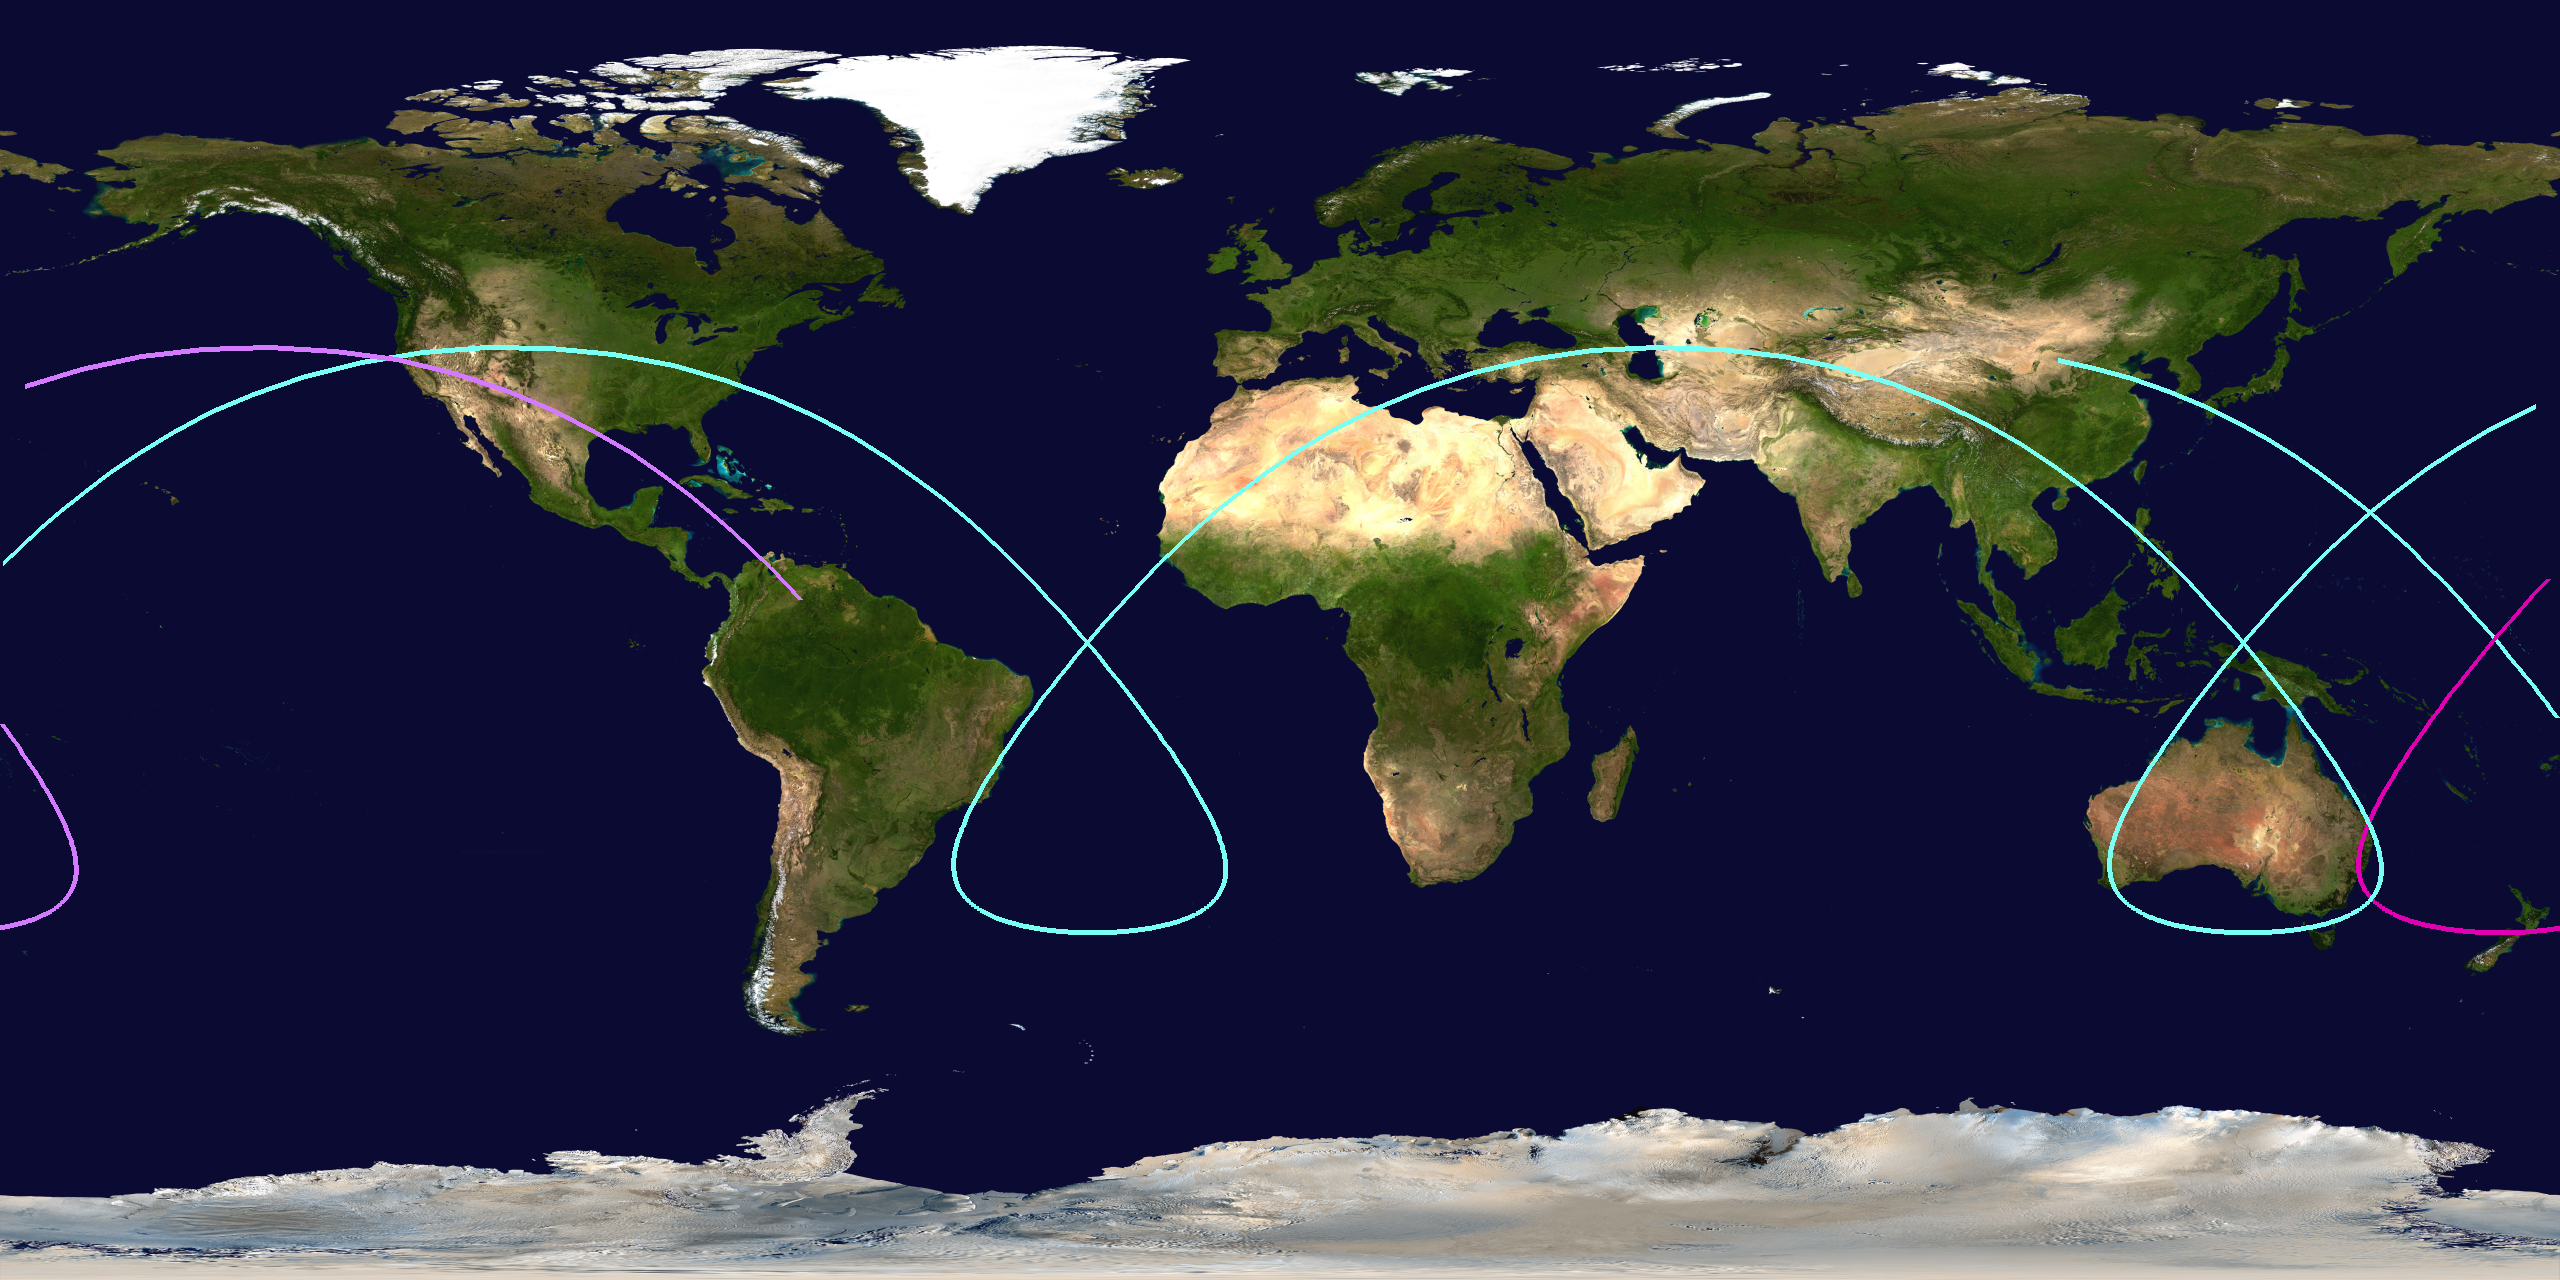
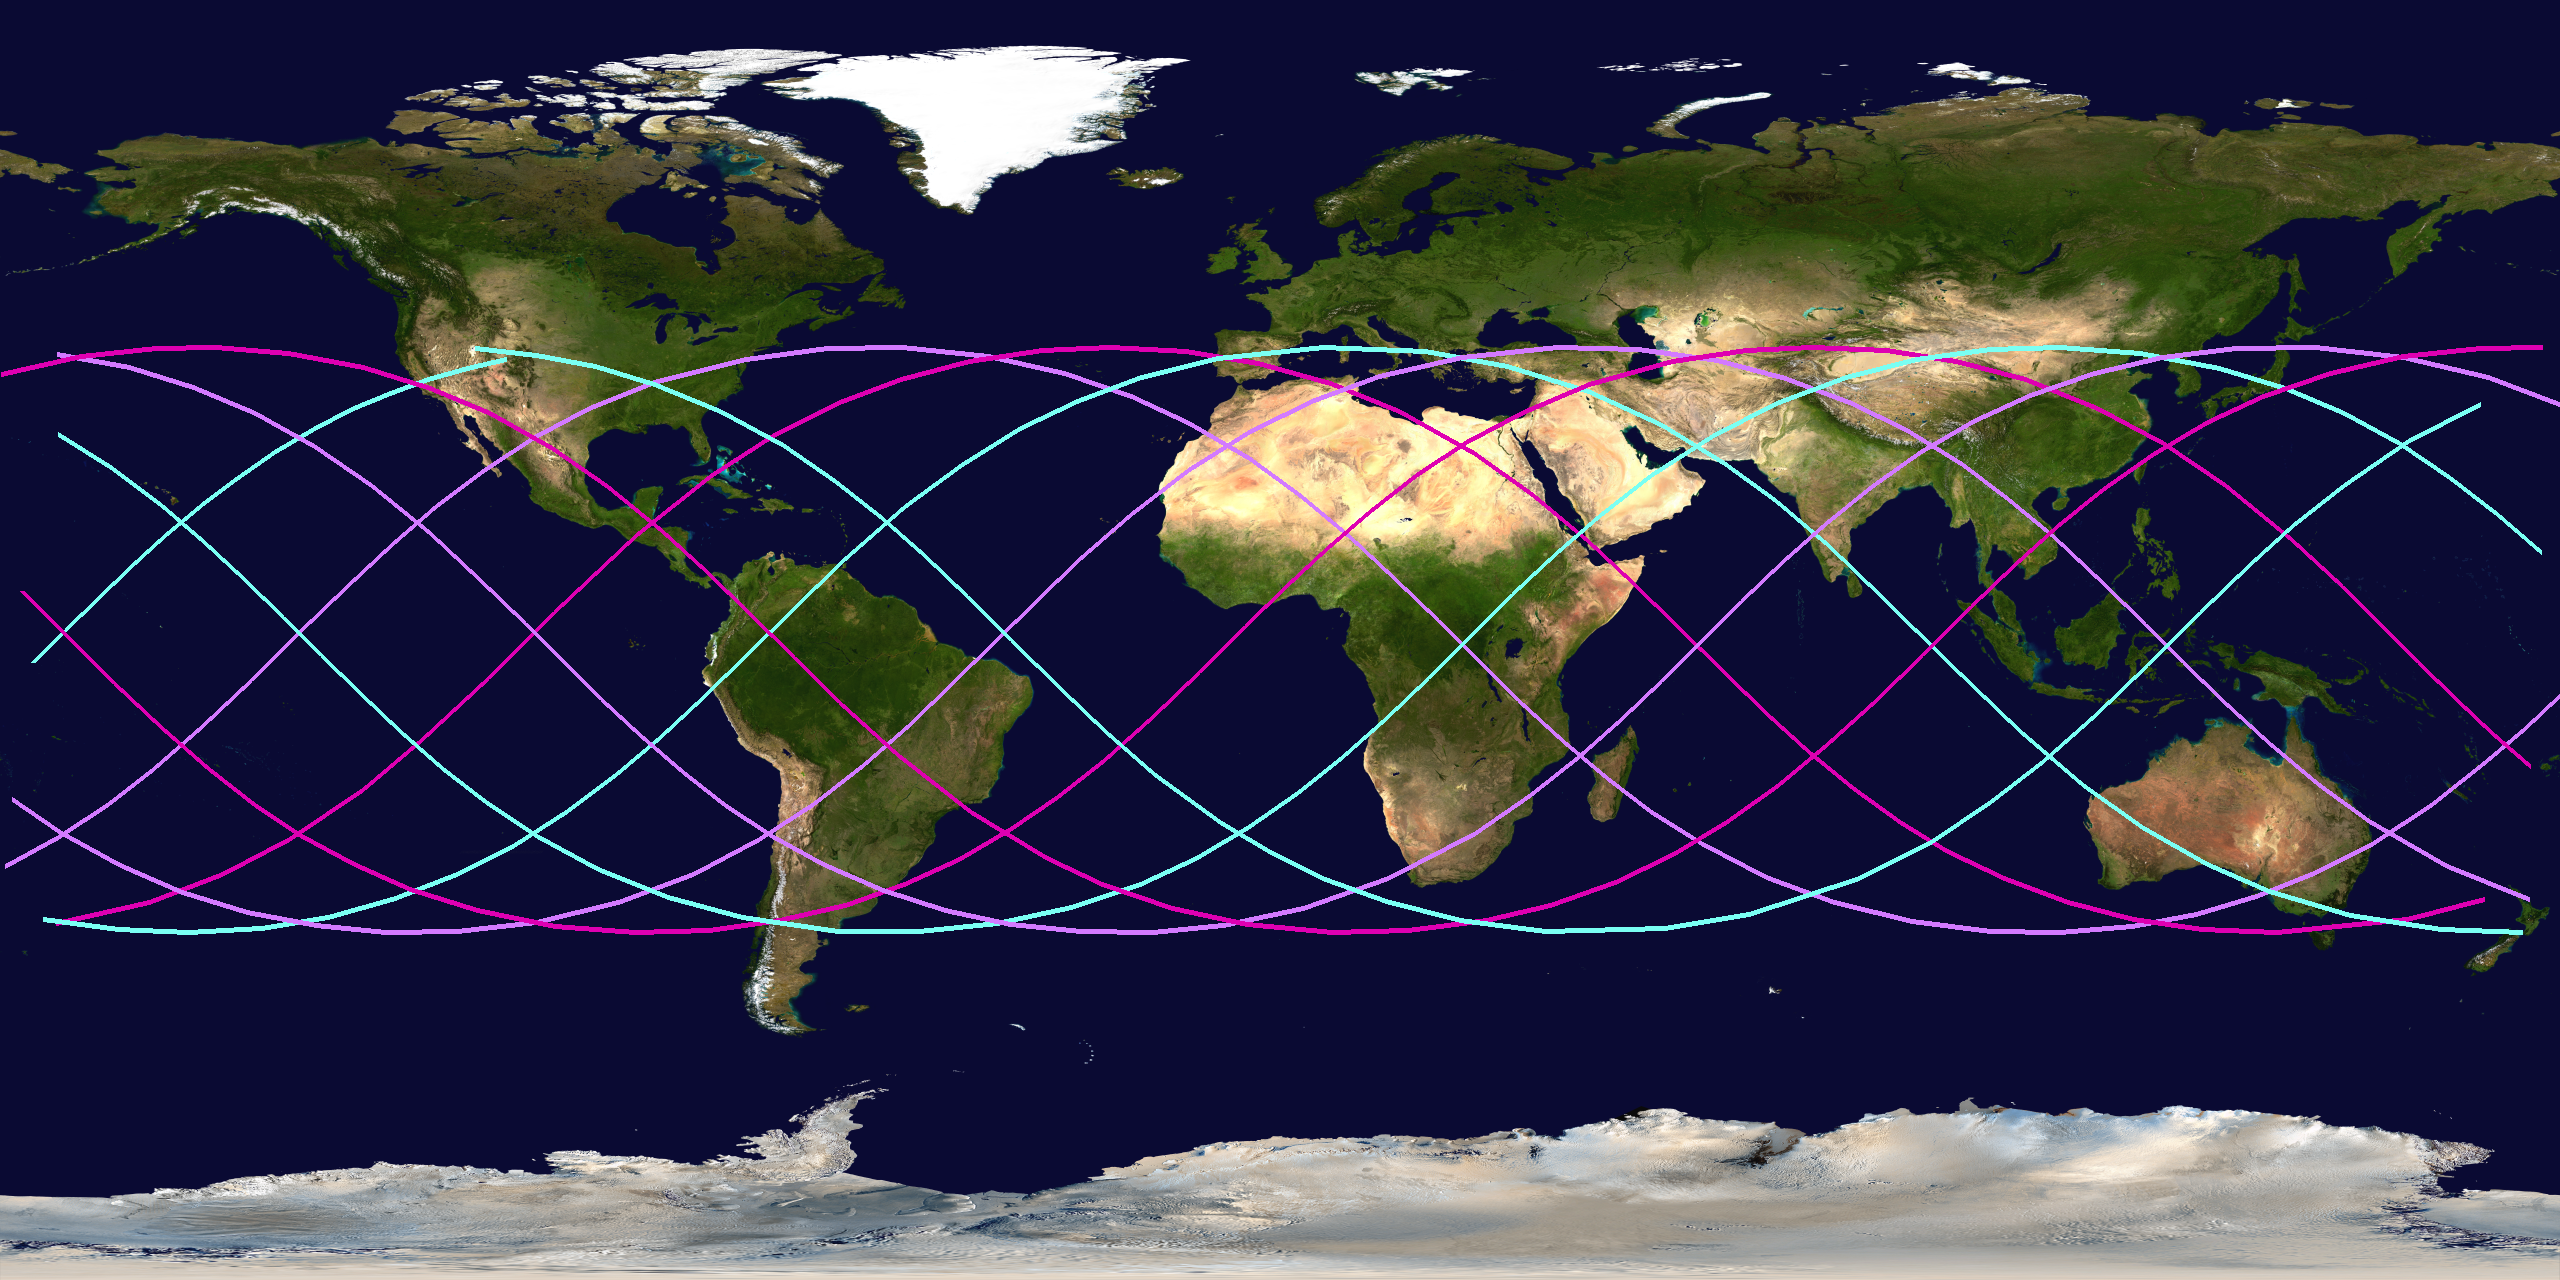
added state writing at configurable time steps

diff --git a/OrbitSim.py b/OrbitSim.py
@@ -1,11 +1,16 @@
-import os, json, numpy, pygame, time, threading
+import os, json, numpy, pygame, time, threading, jsonpickle
 from renderer import *
 from copy import deepcopy
 
-groundControlPath = "GroundControlFiles"
+groundControlPath = "GroundControl"
+stateFilePath = os.path.join("SatState.json")
+
 configPath = os.path.join("ConfigFiles", "OrbitSim")
 configFilename = os.path.join(configPath, "Universe.cfg")
+satSavePath = os.path.join(configPath, "Orbit.cfg")
 mapFilename = os.path.join(configPath, "Map.png")
+
+STATE_EVENT = pygame.event.custom_type()
 
 def config():
     """Returns the config dictionary. Generates with default values if no config dictionary exists."""
@@ -18,7 +23,8 @@ def config():
                 "G": 6.674e-11,
                 "earthMass": 5.972e24, #in kg
                 "earthRadius": 6378000, #meters
-                "timeScale": 1 #higher number go faster wheeeeee
+                "timeScale": 1, #higher number go faster wheeeeee
+                "updateTick": 300 #seconds to wait between save to file
             }
         with open(configFilename, "w") as file:
             json.dump(config_dic, file, indent = 4)
@@ -27,14 +33,67 @@ def config():
         with open(configFilename) as file:
             return json.load(file)
 
+
+
 class OrbitingBody:
     """a zero-mass point object parented to a planet"""
     def __init__(self, location:Point, velocity:Point, name, displaySize, parentPlanet):
         self.location = location
+        self.resetLocation = location.copy()
         self.velocity = velocity
+        self.resetVelocity = velocity.copy()
         self.name = name
         self.displaySize = displaySize #the size of the object on camera in pixels, for visibility reasons
         self.parentPlanet = parentPlanet
+        self.lastDelta = 0
+        self.lastSecondDelta = 0
+        self.keepFreeze = 3
+
+    def stationKeep(self):
+        currDelta = Point.subtract(self.resetLocation, self.location).magnitude()
+        currSecondDelta = currDelta - self.lastDelta
+        if (currSecondDelta > 0) and (self.lastSecondDelta <= 0) and self.keepFreeze <= 0:
+            self.location = self.resetLocation.copy()
+            self.velocity = self.resetVelocity.copy()
+            self.keepFreeze = 3
+        elif self.keepFreeze > 0:
+            self.keepFreeze -= 1
+        self.lastDelta = currDelta
+        self.lastSecondDelta = currSecondDelta
+
+    def latLongAlt(self):
+        rho, theta, phi = self.location.polar()
+        rawLat, rawLong = self.parentPlanet.sphericalToLatLong(theta, phi) #negative lat is north, positive lat is south, positive long is east, negative long is west
+        return (rho - self.parentPlanet.radius), rawLat, rawLong
+
+    def writeStateReadable(self):
+        alt, lat, long = self.latLongAlt()
+        stateDic = {
+                "notes": "lat: pos S, neg N; long: pos E, neg W",
+                "latitude": lat,
+                "longitude": long,
+                "altitude": alt,
+                "velocity": self.velocity.magnitude()
+            }
+        with open(stateFilePath, "w") as file:
+            json.dump(stateDic, file, indent=4)
+
+    def saveState(self):
+        stateDic = {
+                "location": jsonpickle.encode(self.location),
+                "velocity": jsonpickle.encode(self.velocity),
+            }
+
+    def loadState(self):
+        if os.path.exists(satSavePath):
+            with open(satSavePath) as file:
+                state = json.load(file)
+                self.location = jsonpickle.decode(state["location"])
+                self.velocity = jsonpickle.decode(state["velocity"])
+            return True
+        else:
+            return False
+
 
 class Planet:
     """A massive body at 0,0,0 and a given radius."""
@@ -56,7 +115,7 @@ class Planet:
         """Converts theta and phi spherical coordinates to latitude and longitude. -> lat, long"""
         rotRadian = self.rotationPercentage/100 * 2 * math.pi
         lat = math.degrees(phi - (math.pi/2)) #negative lat is north, positive is south
-        long = theta - rotRadian #positive long is east, negative is west
+        long = rotRadian - theta #positive long is east, negative is west
         if long < -math.pi:
             long += math.pi*2
         elif long > math.pi:
@@ -97,6 +156,7 @@ def physicsUpdate(objects, orbitlines, deltaTime):
             accel = Point.scalarMult(Point.subtract(obj.location, obj.parentPlanet.location).normalize(),-(config()["G"] * obj.parentPlanet.mass)/(Point.subtract(obj.location, obj.parentPlanet.location).magnitude() ** 2))
             obj.velocity = Point.add(obj.velocity, Point.scalarMult(accel, deltaTime))
             obj.location = Point.add(obj.location, Point.scalarMult(obj.velocity, deltaTime))
+            obj.stationKeep()
         elif type(obj).__name__ == "Planet":
             obj.rotate(deltaTime)
     for line in orbitlines:
@@ -116,10 +176,12 @@ if __name__=="__main__":
     running = True
     display = False
     thisEarth = deepcopy(Planet.Earth)
-    sat = OrbitingBody(Point(0, config()["earthRadius"], config()["earthRadius"] - 800000), Point(-8900,0,0), "BoSLOO", 5, thisEarth)
+    sat = OrbitingBody(Point(0, config()["earthRadius"], config()["earthRadius"] - 800000), Point(-6900,0,0), "BoSLOO", 5, thisEarth)
     orbitlines = []
     renderObjects = [thisEarth, sat, orbitlines]
+    configFile = config()
     clock = pygame.time.Clock()
+    stateTimer = pygame.time.set_timer(STATE_EVENT, configFile["updateTick"]*1000)
     mapThread = threading.Thread()
 
     save = False
@@ -130,7 +192,7 @@ if __name__=="__main__":
         clock.tick(FPS)
         if display:
             #deltaTime = frameTime * config()["timeScale"]    
-            deltaTime = (clock.get_time()/1000) * config()["timeScale"]      
+            deltaTime = (clock.get_time()/1000) * configFile["timeScale"]      
             physicsUpdate(renderObjects, orbitlines, deltaTime)
             camera.renderFrame(save=save)
             save=False
@@ -142,7 +204,7 @@ if __name__=="__main__":
             elif event.type == pygame.MOUSEBUTTONDOWN:
                 if not display:
                     display = True
-                    camera = Camera(window, Point(10 * config()["earthRadius"], 0, 0), thisEarth, renderObjects)
+                    camera = Camera(window, Point(10 * configFile["earthRadius"], 0, 0), thisEarth, renderObjects)
                     camera.renderFrame()
                     pygame.display.flip()
                 else:
@@ -150,6 +212,10 @@ if __name__=="__main__":
                     if not mapThread.is_alive():
                         mapThread = threading.Thread(target=camera.saveGroundTrack())
                         mapThread.start()
+
+            elif event.type == STATE_EVENT:
+                sat.writeStateReadable()
+                configFile = config()
         
         #time.sleep(frameTime)
 

diff --git a/renderer.py b/renderer.py
@@ -11,6 +11,9 @@ class Point:
     def __init__(self, x, y, z):
         self.vector = numpy.array([x, y, z])
 
+    def copy(self):
+        return Point(self.vector[0], self.vector[1], self.vector[2])
+
     def polar(self):
         """Converts the vector rectangular coordinates to polar coordinates."""
         if self.vector[0] == 0:
@@ -28,7 +31,7 @@ class Point:
         return [rho, theta, phi]
 
     def magnitude(self):
-        return numpy.linalg.norm(self.vector)
+        return float(numpy.linalg.norm(self.vector))
 
     def normalize(self):
         self.vector = self.vector/self.magnitude()
@@ -209,16 +212,13 @@ class Camera:
         #pygame.draw.circle(screenSurface, (150,255,150), (int(intersectPoint.vector[1]), int(intersectPoint.vector[2])), 5)
 
         #generate text
-        rho, theta, phi = sat.location.polar()
-        if rho < self.target.radius:
-            0 == 0
 
-        rawLat, rawLong = self.target.sphericalToLatLong(theta, phi)
+        alt, rawLat, rawLong = sat.latLongAlt()
         self.updateTrackList(rawLat, rawLong)
         latString = f"Latitude: {round(rawLat,4)}⁰ S" if rawLat >= 0 else f"Latitude: {-round(rawLat,4)}⁰ N"
         longString = f"Longitude: {round(rawLong,4)}⁰ E" if rawLong >= 0 else f"Longitude: {-round(rawLong,4)}⁰ W"
         font.render_to(backSurface, (0,0), f"Speed: {round(sat.velocity.magnitude()/1000,3)} km/s", (255,255,255))
-        font.render_to(backSurface, (0,20), f"Altitude: {round((rho - self.target.radius)/1000)} km", (255,255,255))
+        font.render_to(backSurface, (0,20), f"Altitude: {round((alt)/1000)} km", (255,255,255))
         font.render_to(backSurface, (0,50), latString, (255,255,255))
         font.render_to(backSurface, (0,70), longString, (255,255,255))
 
